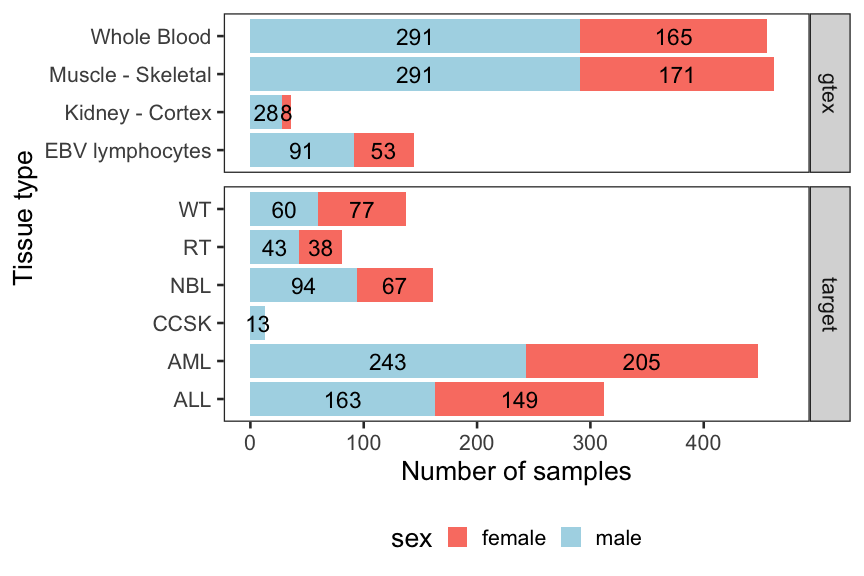
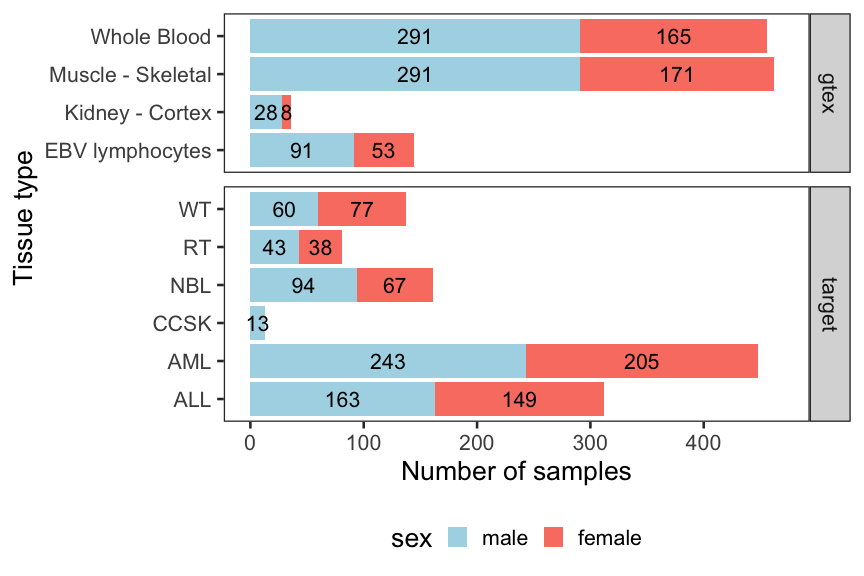
add explanation of rel() vs rel()/.pt

diff --git a/notebooks/compendium_summary/compendium_v1_summary.md b/notebooks/compendium_summary/compendium_v1_summary.md
@@ -775,6 +775,7 @@ ggplot(for_summary_compendium_df, aes(x = age_in_years, fill = dataset)) +
     aes(label = paste0(after_stat(count))), 
     hjust = 0,
     vjust = -0.5,
+    # rel() gives size in mm, use /.pt to convert to points
     size = rel(15)/.pt,
     angle = 45
   ) +
@@ -788,7 +789,7 @@ ggplot(for_summary_compendium_df, aes(x = age_in_years, fill = dataset)) +
   theme(
     # rotate x axis labels
     axis.text.x = element_text(angle = 45, hjust = 1),
-    # make facet labels smaller
+    # make facet labels smaller, size in points
     strip.text = element_text(size = rel(0.8))
     ) +
   facet_wrap(
@@ -825,7 +826,7 @@ ggplot(for_summary_compendium_df, aes(y = plot_tissue_type, fill = sex)) +
     # count number of observations in each tissue type
     stat = "count",
     aes(label = paste0(after_stat(count))), 
-    size = rel(6),
+    size = rel(16)/.pt,
     angle = 0,
     position = position_stack(vjust = 0.5)
   ) +
@@ -837,11 +838,11 @@ ggplot(for_summary_compendium_df, aes(y = plot_tissue_type, fill = sex)) +
     legend.position = "bottom"
   ) +
   facet_grid(
-    rows = "dataset",
+    rows = vars(dataset),
     scales = "free_y",
     space = "free_y"
   ) +
-  scale_fill_manual(values = sex_palette) 
+  scale_fill_manual(values = sex_palette, guide = guide_legend(reverse = TRUE)) 
 ```
 
 <div id="fig-sex_dist_tacked_bar">
